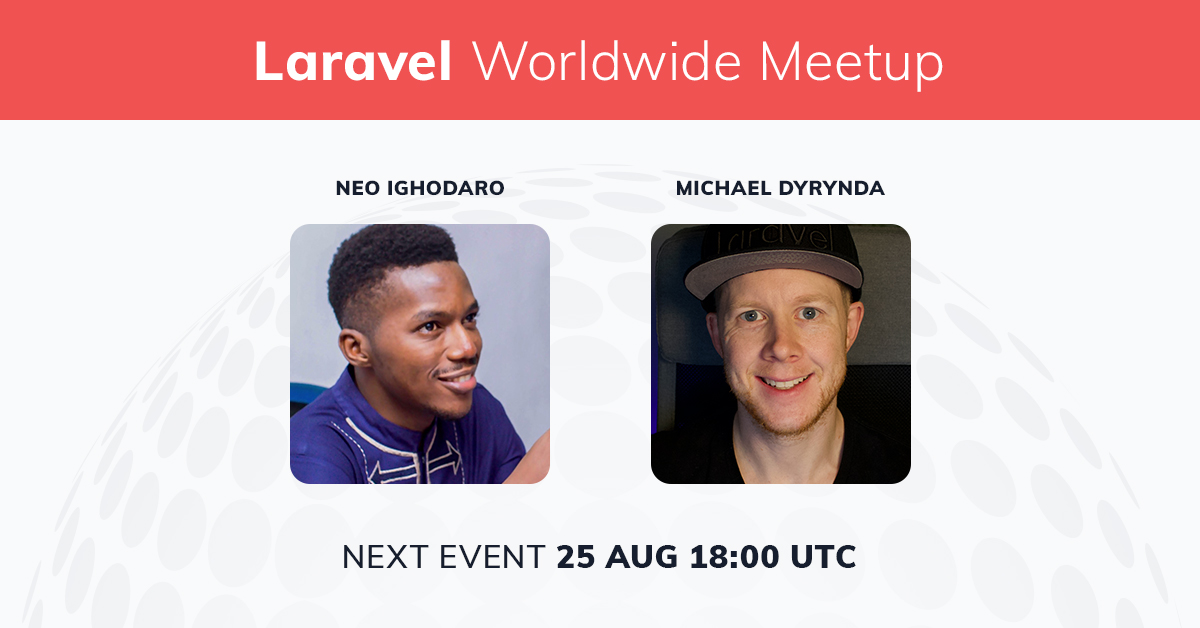
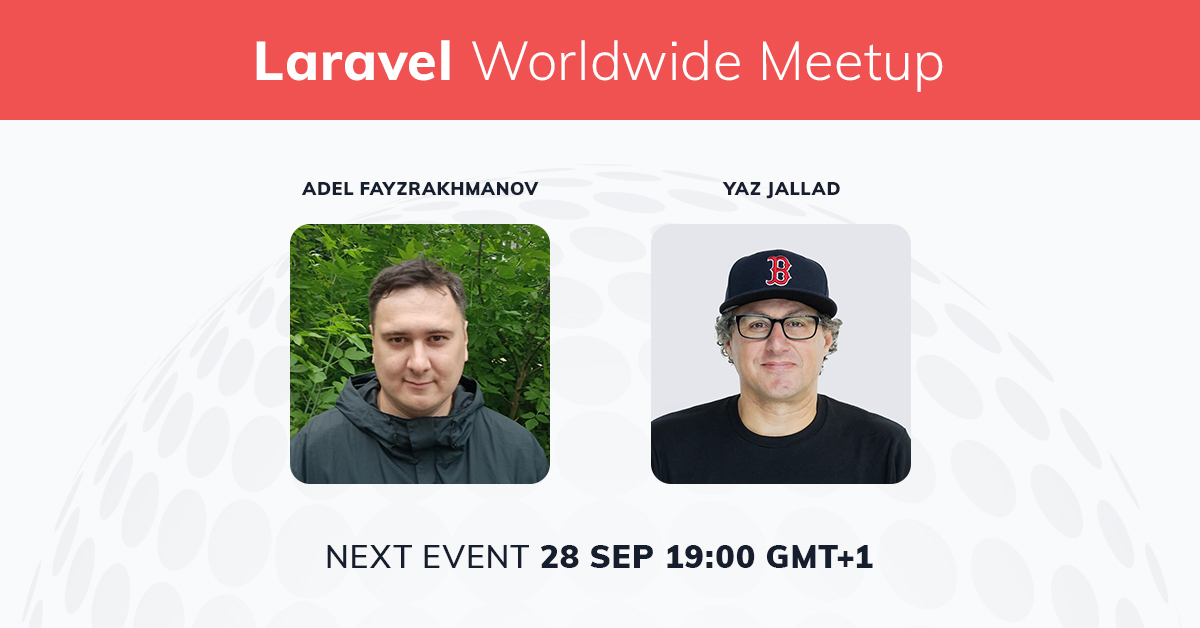
feat: change the social title and card for the next event

Changed region(s): [[0.2158, 0.2723, 0.4625, 0.7866], [0.5242, 0.2723, 0.7708, 0.7866], [0.2467, 0.8471, 0.74, 0.9076]]

diff --git a/resources/views/layouts/main.blade.php b/resources/views/layouts/main.blade.php
@@ -3,7 +3,7 @@
 <head>
     <meta charset="utf-8">
     <title>Laravel Worldwide Meetup</title>
-    <meta name="title" content="Next event: 25 Aug at 18:00 GMT, with Neo Igodaro and Michael Dyrynda">
+    <meta name="title" content="Next event: 28 Sep at 19:00 GMT+1, with Adel Fayzrakhmanov and Yaz Jallad">
     <meta name="description" content="Join the official Laravel meetup in the cloud. Learn from various familiar and new speakers. Chat with your fellow artisans.">
     <meta name="viewport" content="width=device-width, initial-scale=1">
     <link rel="apple-touch-icon" sizes="180x180" href="/img/favicon/apple-touch-icon.png">
@@ -15,13 +15,13 @@
     <meta name="msapplication-TileColor" content="#f05252">
     <meta name="theme-color" content="#f05252">
     <meta property="og:type" content="website">
-    <meta property="og:url" content="{{ url('/') }}?2008">
-    <meta property="og:title" content="Next event: 25 Aug at 18:00 GMT, with Neo Igodaro and Michael Dyrynda">
+    <meta property="og:url" content="{{ url('/') }}?2009">
+    <meta property="og:title" content="Next event: 28 Sep at 19:00 GMT+1, with Adel Fayzrakhmanov and Yaz Jallad">
     <meta property="og:description" content="Join the official Laravel meetup in the cloud. Learn from various familiar and new speakers. Chat with your fellow artisans.">
     <meta property="og:image" content="{{ asset('/img/socialcard.jpg') }}">
     <meta property="twitter:card" content="summary_large_image">
-    <meta property="twitter:url" content="{{ url('/') }}?2008">
-    <meta property="twitter:title" content="Next event: 25 Aug at 18:00 GMT, with Neo Igodaro and Michael Dyrynda">
+    <meta property="twitter:url" content="{{ url('/') }}?2009">
+    <meta property="twitter:title" content="Next event: 28 Sep at 19:00 GMT+1, with Adel Fayzrakhmanov and Yaz Jallad">
     <meta property="twitter:description" content="Join the official Laravel meetup in the cloud. Learn from various familiar and new speakers. Chat with your fellow artisans.">
     <meta property="twitter:image" content="{{ asset('/img/socialcard.jpg') }}">
     <script defer src="{{ mix('js/app.js') }}"></script>
